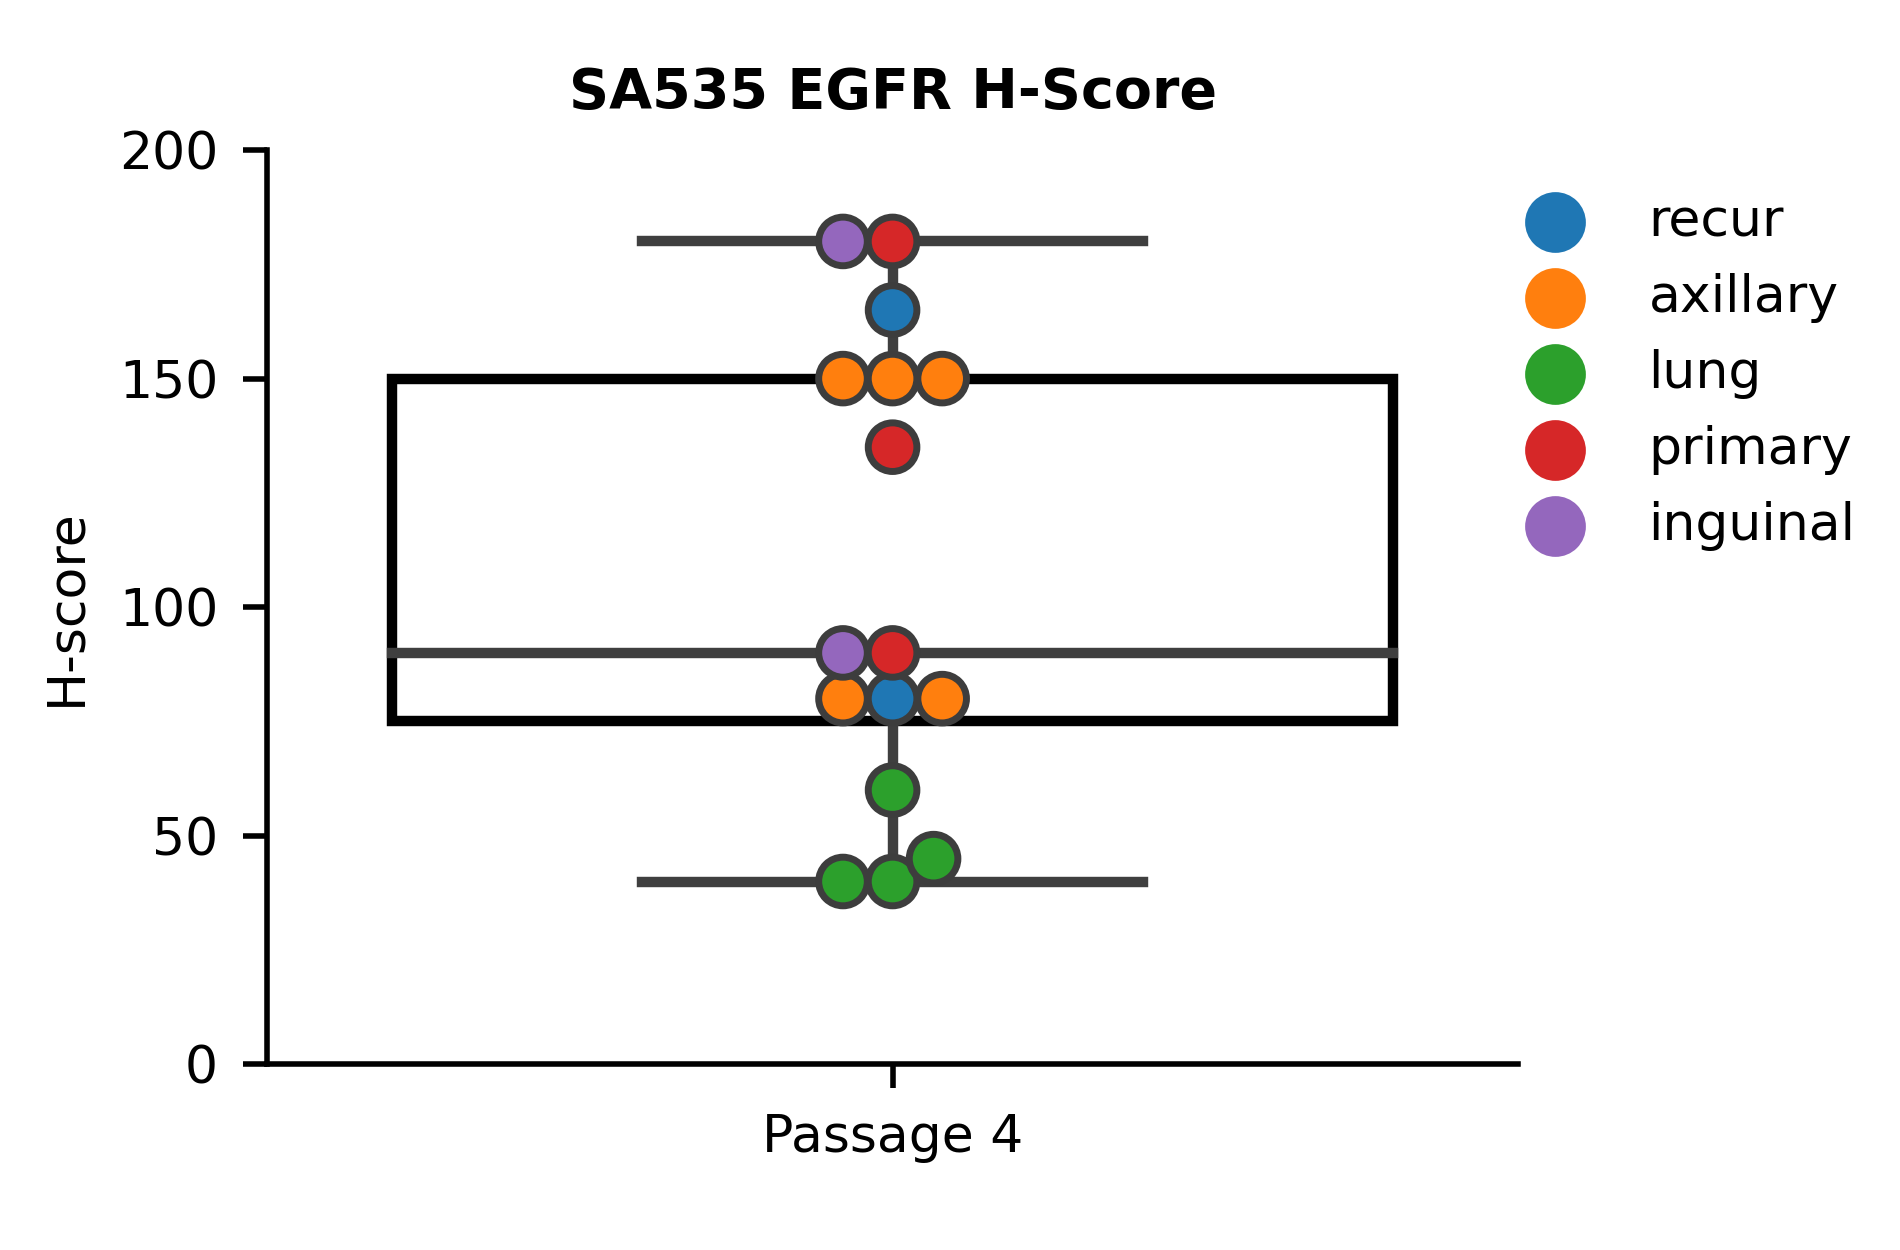
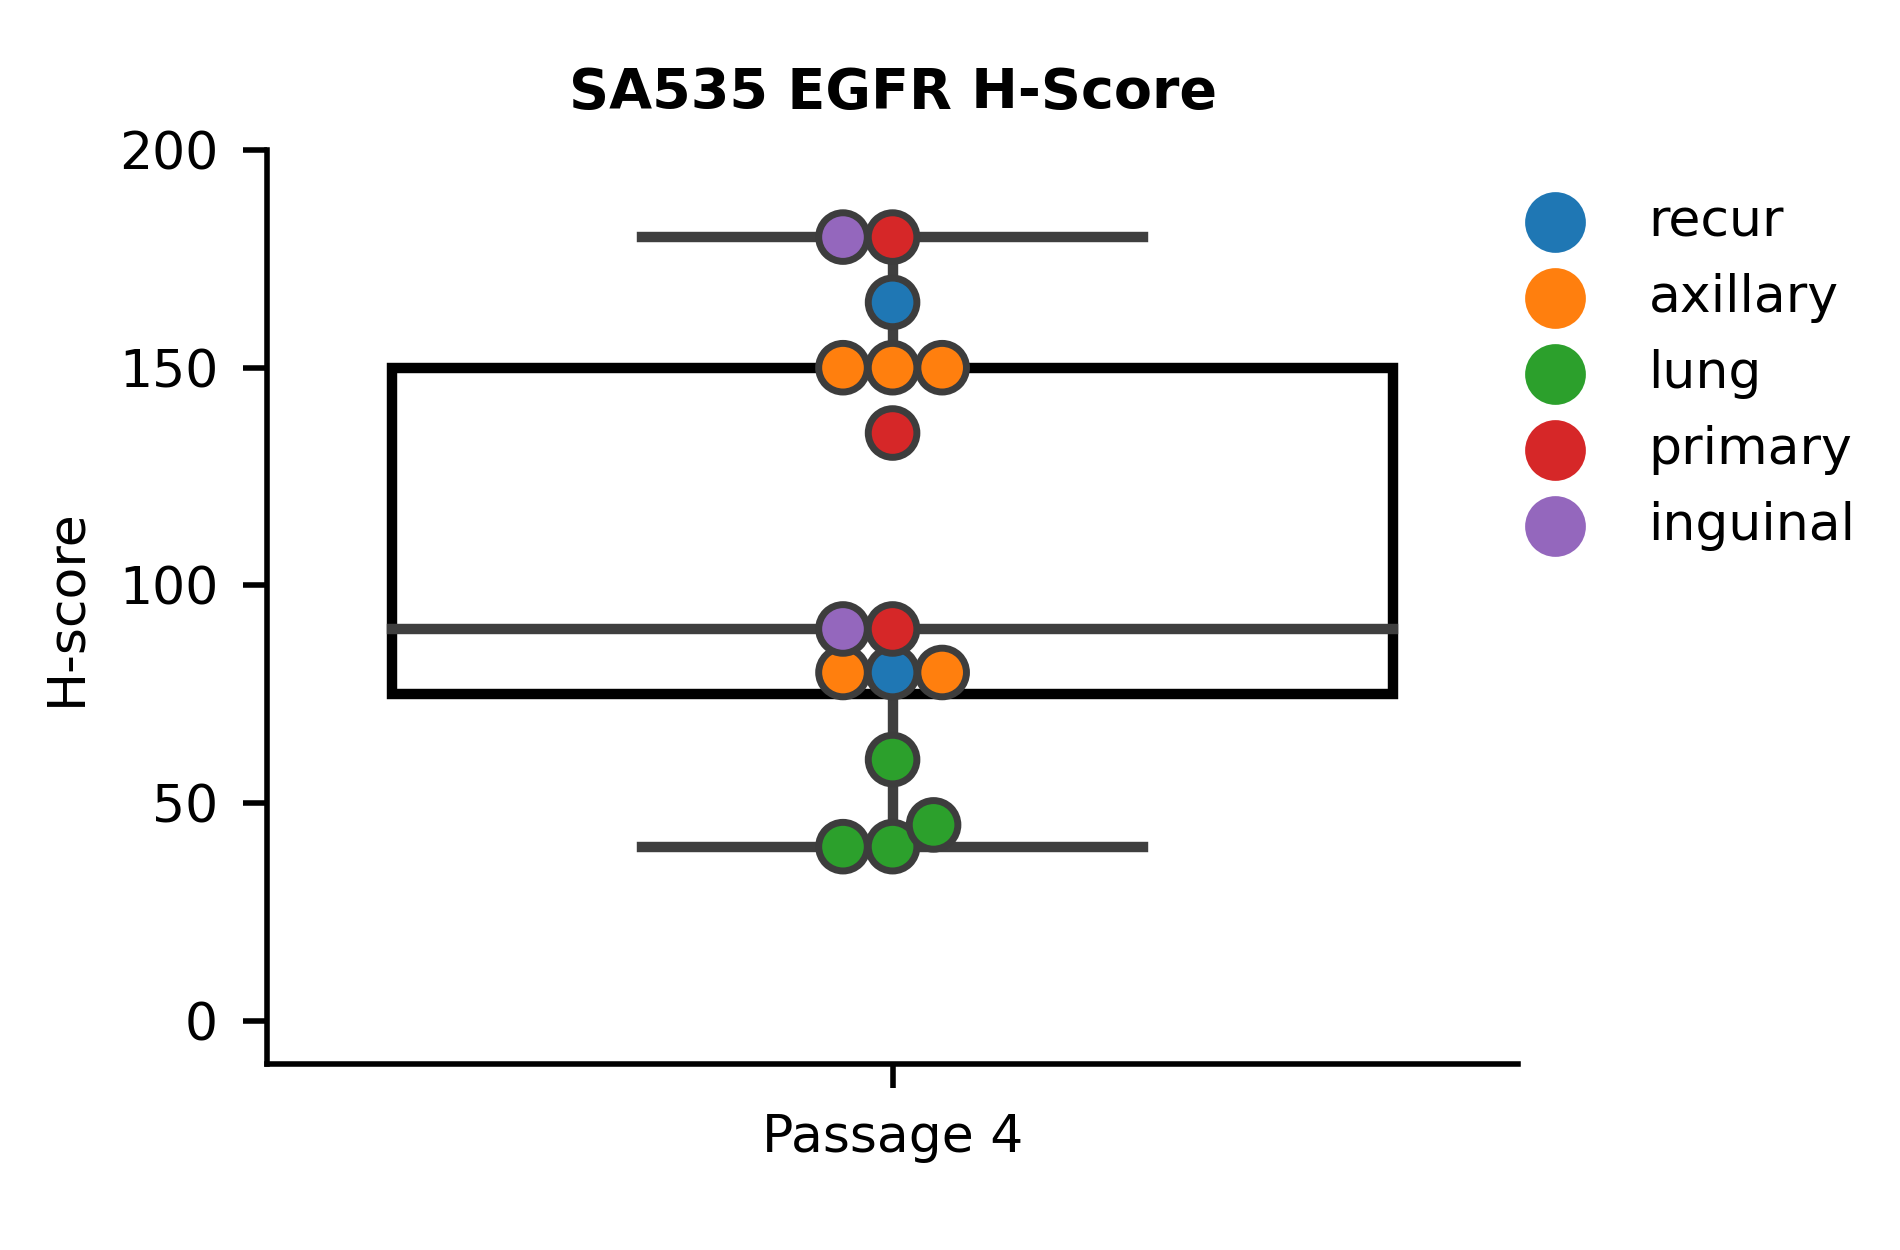
Modify fig 8

diff --git a/figures/metastasis_manuscript_fig.py b/figures/metastasis_manuscript_fig.py
@@ -89,11 +89,11 @@ if __name__ == '__main__':
     plt.savefig("figures/output/fig2_markers.png", dpi=500)
     plt.clf()
 
-    fig8_markers = pd.read_csv("figures/Fig8_markers.csv", index_col=0)
+    fig8_919_markers = pd.read_csv("figures/Fig8_919_markers.csv", index_col=0)
 
     fig, ax = plt.subplots(1, 1, figsize=(2.5, 1.75))
     cmap = ["#5a0064d9", "#fb8811d9"]
-    sns.heatmap(fig8_markers, cmap=cmap, cbar=False, linewidth=0.75)
+    sns.heatmap(fig8_919_markers, cmap=cmap, cbar=False, linewidth=0.75)
     legend_handles = [Patch(color=cmap[True], label='Positive'),
                       Patch(color=cmap[False], label='Negative')]
     plt.legend(handles=legend_handles, ncol=2, bbox_to_anchor=[0.5, -0.8], loc='lower center',
@@ -103,13 +103,31 @@ if __name__ == '__main__':
     plt.title("SA919", weight='bold', fontsize=8)
     box = ax.get_position()
     ax.set_position([box.x0, box.y0 + box.height * 0.35, box.width, box.height * 0.65])
-    plt.savefig("figures/output/fig8_markers.png", dpi=500)
+    plt.savefig("figures/output/fig8_919_markers.png", dpi=500)
+    plt.clf()
+
+    fig8_535_markers = pd.read_csv("figures/Fig8_535_markers.csv", index_col=0)
+
+    fig, ax = plt.subplots(1, 1, figsize=(2.5, 1.75))
+    cmap = ["#5a0064d9", "#fb8811d9"]
+    sns.heatmap(fig8_535_markers, cmap=cmap, cbar=False, linewidth=0.75)
+    legend_handles = [Patch(color=cmap[True], label='Positive'),
+                      Patch(color=cmap[False], label='Negative')]
+    plt.legend(handles=legend_handles, ncol=2, bbox_to_anchor=[0.5, -0.8], loc='lower center',
+               frameon=False, fontsize=7.5)
+    plt.xticks(rotation=90, fontsize=7.5)
+    plt.yticks(rotation=0, fontsize=7.5)
+    plt.title("SA535", weight='bold', fontsize=8)
+    box = ax.get_position()
+    ax.set_position([box.x0, box.y0 + box.height * 0.35, box.width, box.height * 0.65])
+    plt.savefig("figures/output/fig8_535_markers.png", dpi=500)
     plt.clf()
 
     """
-    4. Plot EGFR
+    4. Plot EGFR 919
     """
     fig8_919 = pd.read_csv("figures/Fig8_919_EGFR.csv")
+
     fig, ax = plt.subplots(1, 1, figsize=(3.8, 2.5))
     sns.boxplot(x="group", y="H-score", data=fig8_919, linewidth=1.5, ax=ax)
     for i, box in enumerate(ax.artists):
@@ -124,11 +142,49 @@ if __name__ == '__main__':
     plt.xlabel("", fontsize=6)
     plt.ylabel("H-score", fontsize=7.5)
     plt.title("SA919 EGFR H-Score", weight='bold', fontsize=8)
-    plt.savefig("figures/output/fig8_919_egfr.png", dpi=500)
+    plt.savefig("figures/output/fig8_919_egfr_hscore.png", dpi=500)
     plt.clf()
 
+    fig, ax = plt.subplots(1, 1, figsize=(3.8, 2.5))
+    sns.boxplot(x="group", y="Intensity", data=fig8_919, linewidth=1.5, ax=ax)
+    for i, box in enumerate(ax.artists):
+        box.set_edgecolor('black')
+        box.set_facecolor('white')
+    sns.swarmplot(x="group", y="Intensity", data=fig8_919, linewidth=1, ax=ax, size=7)
+    sns.despine()
+    plt.ylim(-0.5, 5)
+    plt.xticks(fontsize=7.5)
+    plt.yticks(fontsize=7.5)
+    ax.set_xticklabels(["Passage 3 & 4", "Passage 7"])
+    plt.xlabel("", fontsize=6)
+    plt.ylabel("Intensity", fontsize=7.5)
+    plt.title("SA919 EGFR Intensity", weight='bold', fontsize=8)
+    plt.savefig("figures/output/fig8_919_egfr_intensity.png", dpi=500)
+    plt.clf()
+
+    fig, ax = plt.subplots(1, 1, figsize=(3.8, 2.5))
+    sns.boxplot(x="group", y="percentage", data=fig8_919, linewidth=1.5, ax=ax)
+    for i, box in enumerate(ax.artists):
+        box.set_edgecolor('black')
+        box.set_facecolor('white')
+    sns.swarmplot(x="group", y="percentage", data=fig8_919, linewidth=1, ax=ax, size=7)
+    sns.despine()
+    plt.ylim(-5, 100)
+    plt.xticks(fontsize=7.5)
+    plt.yticks(fontsize=7.5)
+    ax.set_xticklabels(["Passage 3 & 4", "Passage 7"])
+    plt.xlabel("", fontsize=6)
+    plt.ylabel("Percentage", fontsize=7.5)
+    plt.title("SA919 EGFR Percentage", weight='bold', fontsize=8)
+    plt.savefig("figures/output/fig8_919_egfr_percentage.png", dpi=500)
+    plt.clf()
+
+    """
+    5. Plot EGFR 535
+    """
     fig8_535 = pd.read_csv("figures/Fig8_535_EGFR.csv")
     fig8_535 = fig8_535[fig8_535["group"] == "X4"]
+
     fig, ax = plt.subplots(1, 1, figsize=(3.8, 2.5))
     sns.boxplot(x="group", y="H-score", data=fig8_535, linewidth=1.5, ax=ax)
     for i, box in enumerate(ax.artists):
@@ -136,7 +192,7 @@ if __name__ == '__main__':
         box.set_facecolor('white')
     sns.swarmplot(x="group", y="H-score", hue="site", data=fig8_535, linewidth=1, ax=ax, size=7)
     sns.despine()
-    plt.ylim(0, 200)
+    plt.ylim(-10, 200)
     plt.xticks(fontsize=7.5)
     plt.yticks(fontsize=7.5)
     ax.set_xticklabels(["Passage 4"])
@@ -156,7 +212,7 @@ if __name__ == '__main__':
         box.set_facecolor('white')
     sns.swarmplot(x="group", y="Intensity", hue="site", data=fig8_535, linewidth=1, ax=ax, size=7)
     sns.despine()
-    plt.ylim(0, 5)
+    plt.ylim(-0.5, 5)
     plt.xticks(fontsize=7.5)
     plt.yticks(fontsize=7.5)
     ax.set_xticklabels(["Passage 4"])
@@ -176,7 +232,7 @@ if __name__ == '__main__':
         box.set_facecolor('white')
     sns.swarmplot(x="group", y="percentage", hue="site", data=fig8_535, linewidth=1, ax=ax, size=7)
     sns.despine()
-    plt.ylim(0, 100)
+    plt.ylim(-5, 100)
     plt.xticks(fontsize=7.5)
     plt.yticks(fontsize=7.5)
     ax.set_xticklabels(["Passage 4"])
@@ -190,7 +246,7 @@ if __name__ == '__main__':
     plt.clf()
 
     """
-    5. Plot Ki67
+    6. Plot Ki67
     """
     fig2_ki67 = pd.read_csv("figures/Fig2_ki67.csv")
     fig, ax = plt.subplots(1, 1, figsize=(3.8, 2.5))
